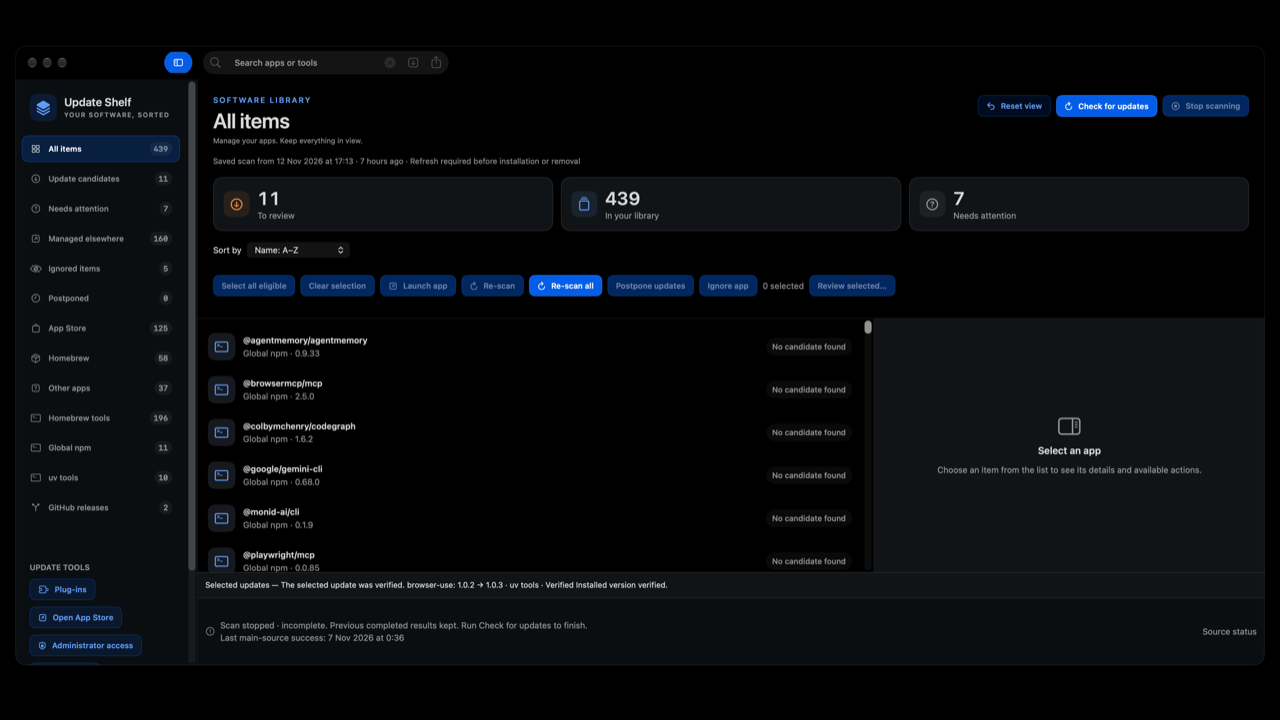
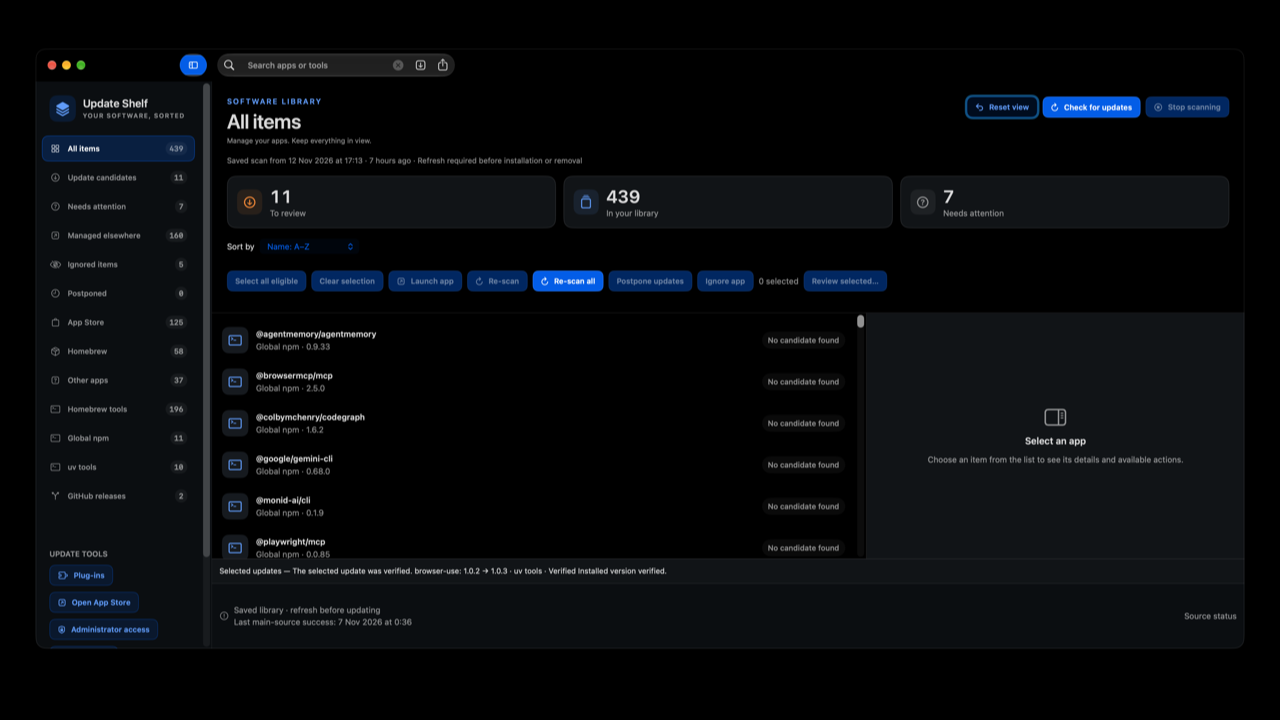
docs: publish fresh 0.9.17 screenshot and updater verification

diff --git a/STATE.md b/STATE.md
@@ -1,3 +1,19 @@
+## v0.9.17-docs.1 — published and in-app upgrade verified
+
+Published stable/latest0.9.17/build157 at2026-11-12T22:38:30Z, source455bd00,
+distributiondc9a4ad. Four public downloads byte-match final signed artifacts.
+Pages43321813931 succeeded; live feed identifies build157/display0.9.17.
+Actual isolated0.10.0/build156 app used the public feed: offered0.9.17, downloaded,
+Install and Relaunch completed, About showed0.9.17(157). A second check reported
+0.9.17 newest. Signature verification passed on the upgraded copy. Owner's
+/Applications installation stayed156; test copy quit normally and original reopened.
+Fresh screenshot captured from the upgraded157 app, resized to1280x720 and visually
+inspected; filename/caption/alt/README identify0.9.17. No full-size links.
+Application code unchanged;506tests/82suites and prior native functional evidence
+remain applicable. Version ordering independently reviewed. ROADMAP aligned.
+Public browser rendering remains unverified due unavailable CUA browser host;
+this existing website check stays open separately from the verified in-app update.
+
 ## v0.9.17/build157 — corrected owner-selected version
 
 Owner requires patch increments by default, including features. Rebuilt unchanged
